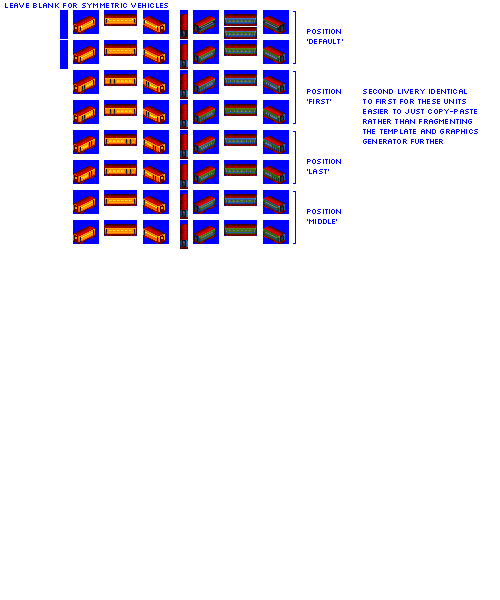
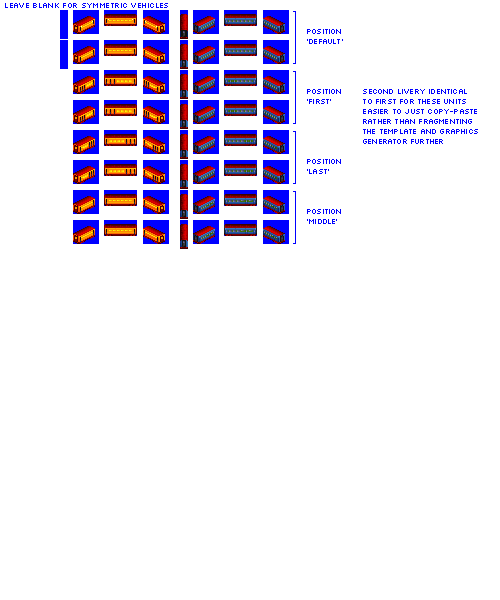
Change: sprites complete for Firebird Coach

diff --git a/src/vehicles/hst_passenger_cars.py b/src/vehicles/hst_passenger_cars.py
@@ -8,7 +8,7 @@ def main():
                                      subtype='U',
                                      intro_date_offset=0, # match to Firebird
                                      cab_id='firebird',
-                                     sprites_complete=False)
+                                     sprites_complete=True)
 
     consist.add_unit(type=HSTPaxCar,
                      chassis='4_axle_solid_express_32px')
